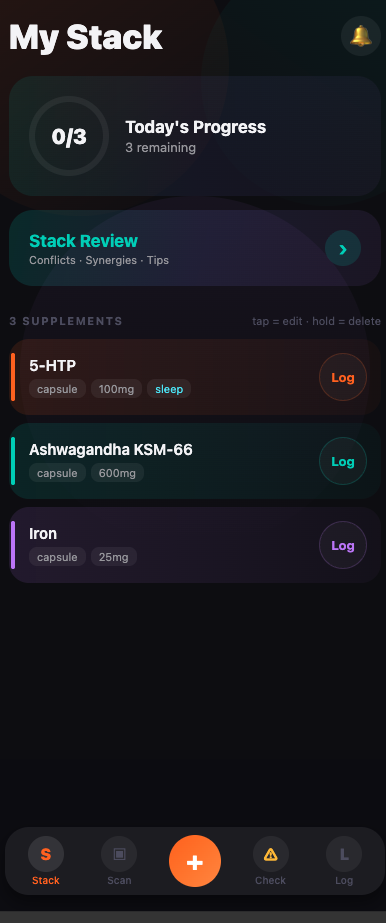
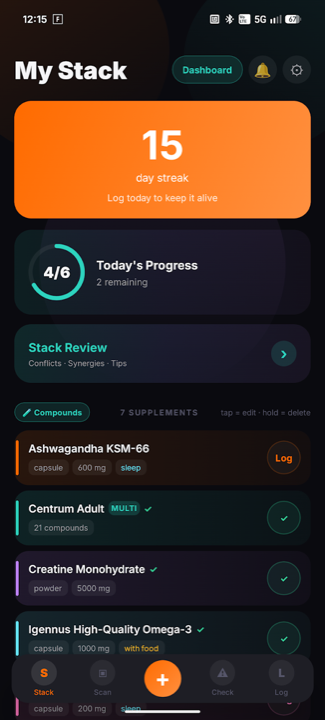
copy(T-144): tighten landing page — concrete hero examples, real screenshot, multivitamin coverage
Wave-1 high-leverage copy edits in the hero, plus targeted polish in
"What it does" sub, more-grid card title, marquee, why-section h2,
CTA sub, and nav. Replaces the empty-state hero screenshot with a
real "15 day streak / 7 supplements / Today's Progress 4/6" mock
that shows the app actually being used. All claims audited against
real product features (no fictional "Stack score: 92" badge — the
in-tree feature it cited doesn't exist).

Hero (highest-leverage):
- h1: "Optimized." → "timed properly." — names the actual moat,
  replaces overused word with concrete verb-form.
- Lede: 5 abstract fragments → concrete iron/calcium/multivitamin
  examples. Adds "A multivitamin hiding 21 compounds." (P1-15 is
  a Suvo moat — multivitamin breakdown).
- Check #2: "Cadence-honest" (internal vocab) → "Honest streaks"
  (matches marquee, more concrete).
- Added 4th check "Multivitamin-aware" (visual + text alignment
  with the new Centrum MULTI · 21 compounds row in the screenshot).
- Badge: "Stack score: 92" (fictional feature) → "Today's progress:
  6 / 7" (real T-122 surface).
- Screenshot replaced with denser version (15-day streak, 7
  supplements visible, partial-progress ring, T-140 Compounds
  toggle pill on screen — copy meets product reality).
- alt-text rewritten to match new screenshot for screen readers.
- Screenshot optimized 458KB → 181KB via `sips -Z 720` (61%
  reduction, Retina-quality at 2x display width).

Section polish:
[…]

diff --git a/index.html b/index.html
@@ -82,7 +82,7 @@
         <a href="sources/">Sources</a>
         <a href="about.html">About</a>
         <a href="privacy.html">Privacy</a>
-        <a href="affiliates.html">Disclosure</a>
+        <a href="affiliates.html">Affiliates</a>
       </div>
       <a class="cta cta-sm" href="mailto:[email redacted]?subject=Suvo%20waitlist" aria-label="Join the Suvo waitlist">
         Join waitlist
@@ -96,10 +96,10 @@
           <svg class="icon" width="14" height="14" viewBox="0 0 24 24" fill="none" stroke="currentColor" stroke-width="2" stroke-linecap="round" stroke-linejoin="round" aria-hidden="true"><path d="M12 3v18M3 12h18M5.6 5.6l12.8 12.8M18.4 5.6L5.6 18.4"/></svg>
           Supplements · Interactions · Timing
         </span>
-        <h1>Your supplement stack. <span class="accent">Optimized.</span></h1>
+        <h1>Your supplement stack, <span class="accent">timed properly.</span></h1>
         <p class="lede">
-          Analyze interactions. Track everything. Time it right.
-          From scan to schedule — no guesswork. No conflicts. Just clarity.
+          Iron with breakfast coffee. Calcium an hour after iron. A multivitamin hiding 21 compounds.
+          Most people guess. Suvo doesn't — scan your bottles, and we'll tell you what conflicts with what, and when each one belongs.
         </p>
         <div class="hero-ctas">
           <a class="cta" href="mailto:[email redacted]?subject=Suvo%20waitlist">
@@ -115,17 +115,21 @@
           </li>
           <li>
             <svg class="icon check" width="14" height="14" viewBox="0 0 24 24" fill="none" stroke="currentColor" stroke-width="3" stroke-linecap="round" stroke-linejoin="round" aria-hidden="true"><polyline points="20 6 9 17 4 12"/></svg>
-            Cadence-honest
+            Honest streaks
           </li>
           <li>
             <svg class="icon check" width="14" height="14" viewBox="0 0 24 24" fill="none" stroke="currentColor" stroke-width="3" stroke-linecap="round" stroke-linejoin="round" aria-hidden="true"><polyline points="20 6 9 17 4 12"/></svg>
             Country-aware
           </li>
+          <li>
+            <svg class="icon check" width="14" height="14" viewBox="0 0 24 24" fill="none" stroke="currentColor" stroke-width="3" stroke-linecap="round" stroke-linejoin="round" aria-hidden="true"><polyline points="20 6 9 17 4 12"/></svg>
+            Multivitamin-aware
+          </li>
         </ul>
       </div>
       <div class="hero-shot" aria-hidden="true">
         <div class="phone">
-          <img src="img/my-stack.png" alt="Suvo My Stack screen showing Today's Progress, Stack Review, and three supplements: 5-HTP, Ashwagandha KSM-66, and Iron." />
+          <img src="img/my-stack.png" alt="Suvo My Stack screen with a 15-day streak, Today's Progress 4/6 with 2 remaining, Stack Review tile, and a list of seven supplements including Ashwagandha KSM-66, Centrum Adult Multi (21 compounds), Creatine Monohydrate, Igennus Omega-3, and Magnesium + L-Theanine." />
         </div>
         <div class="hero-badge hero-badge-left" aria-hidden="true">
           <svg class="icon" width="16" height="16" viewBox="0 0 24 24" fill="none" stroke="currentColor" stroke-width="2" stroke-linecap="round" stroke-linejoin="round"><path d="M12 22s8-4 8-10V5l-8-3-8 3v7c0 6 8 10 8 10z"/><line x1="12" y1="9" x2="12" y2="13"/><line x1="12" y1="17" x2="12.01" y2="17"/></svg>
@@ -136,7 +140,7 @@
         </div>
         <div class="hero-badge hero-badge-right" aria-hidden="true">
           <svg class="icon" width="14" height="14" viewBox="0 0 24 24" fill="none" stroke="currentColor" stroke-width="2" stroke-linecap="round" stroke-linejoin="round"><path d="M12 3v18M3 12h18M5.6 5.6l12.8 12.8M18.4 5.6L5.6 18.4"/></svg>
-          <span class="badge-title">Stack score: 92</span>
+          <span class="badge-title">Today's progress: 6 / 7</span>
         </div>
       </div>
     </div>
@@ -144,34 +148,34 @@
 
   <div class="marquee-band" aria-hidden="true">
     <div class="marquee-track">
-      <span class="marquee-item">Label-photo OCR</span>
+      <span class="marquee-item">Photo-label scan</span>
       <span class="marquee-dot">·</span>
-      <span class="marquee-item">Multivitamin breakdown</span>
+      <span class="marquee-item">Multivitamin breakdowns</span>
       <span class="marquee-dot">·</span>
-      <span class="marquee-item">Cadence-aware</span>
+      <span class="marquee-item">Cadence-aware tracking</span>
       <span class="marquee-dot">·</span>
       <span class="marquee-item">Upper-limit safety</span>
       <span class="marquee-dot">·</span>
-      <span class="marquee-item">Country-aware</span>
+      <span class="marquee-item">Country-aware retailers</span>
       <span class="marquee-dot">·</span>
-      <span class="marquee-item">Stack health review</span>
+      <span class="marquee-item">Stack health reviews</span>
       <span class="marquee-dot">·</span>
       <span class="marquee-item">Honest streaks</span>
       <span class="marquee-dot">·</span>
       <span class="marquee-item">Configurable reminders</span>
       <span class="marquee-dot">·</span>
       <!-- duplicated for seamless scroll -->
-      <span class="marquee-item">Label-photo OCR</span>
+      <span class="marquee-item">Photo-label scan</span>
       <span class="marquee-dot">·</span>
-      <span class="marquee-item">Multivitamin breakdown</span>
+      <span class="marquee-item">Multivitamin breakdowns</span>
       <span class="marquee-dot">·</span>
-      <span class="marquee-item">Cadence-aware</span>
+      <span class="marquee-item">Cadence-aware tracking</span>
       <span class="marquee-dot">·</span>
       <span class="marquee-item">Upper-limit safety</span>
       <span class="marquee-dot">·</span>
-      <span class="marquee-item">Country-aware</span>
+      <span class="marquee-item">Country-aware retailers</span>
       <span class="marquee-dot">·</span>
-      <span class="marquee-item">Stack health review</span>
+      <span class="marquee-item">Stack health reviews</span>
       <span class="marquee-dot">·</span>
       <span class="marquee-item">Honest streaks</span>
       <span class="marquee-dot">·</span>
@@ -184,7 +188,7 @@
     <div class="section-heading">
       <span class="section-eyebrow">Features</span>
       <h2>What it does</h2>
-      <p class="section-sub">Three pillars that make Suvo more than another tracker.</p>
+      <p class="section-sub">Three things every other tracker skips.</p>
     </div>
     <div class="grid">
       <article class="feature-card feature-card-orange">
@@ -264,7 +268,7 @@
       </div>
       <div class="more-card more-card-purple">
         <svg class="more-icon" width="20" height="20" viewBox="0 0 24 24" fill="none" stroke="currentColor" stroke-width="2" stroke-linecap="round" stroke-linejoin="round"><path d="M8.5 14.5A2.5 2.5 0 0 0 11 12c0-1.38-.5-2-1-3-1.072-2.143-.224-4.054 2-6 .5 2.5 2 4.9 4 6.5 2 1.6 3 3.5 3 5.5a7 7 0 1 1-14 0c0-1.153.433-2.294 1-3a2.5 2.5 0 0 0 2.5 2.5z"/></svg>
-        <div class="more-title">Cadence-honest streaks</div>
+        <div class="more-title">Honest streaks</div>
         <div class="more-body">Adherence and most-missed that respect weekly or monthly cadence — no false 90% on a weekly vitamin.</div>
       </div>
     </div>
@@ -275,7 +279,7 @@
       <div class="why-grid">
         <div class="why-left">
           <span class="why-eyebrow">Why one more app?</span>
-          <h2>Built for the<br><span class="text-gradient">stack-serious.</span></h2>
+          <h2>For people who own<br><span class="text-gradient">a supplement shelf.</span></h2>
         </div>
         <div class="why-right">
           <p class="why-secondary">
@@ -327,7 +331,7 @@
   <section id="support" class="cta-section">
     <div class="cta-box">
       <h2>Stop guessing your stack.</h2>
-      <p class="cta-sub">Join the waitlist and be first to turn your shelf of bottles into a smart, conflict-free schedule.</p>
+      <p class="cta-sub">Tell us where to send the launch link. We'll only email once: the day Suvo is ready for you.</p>
       <div class="cta-buttons">
         <a class="cta-light" href="mailto:[email redacted]?subject=Suvo%20waitlist">
           <img class="button-logo" src="assets/brand-mark.png" alt="" width="20" height="20" />